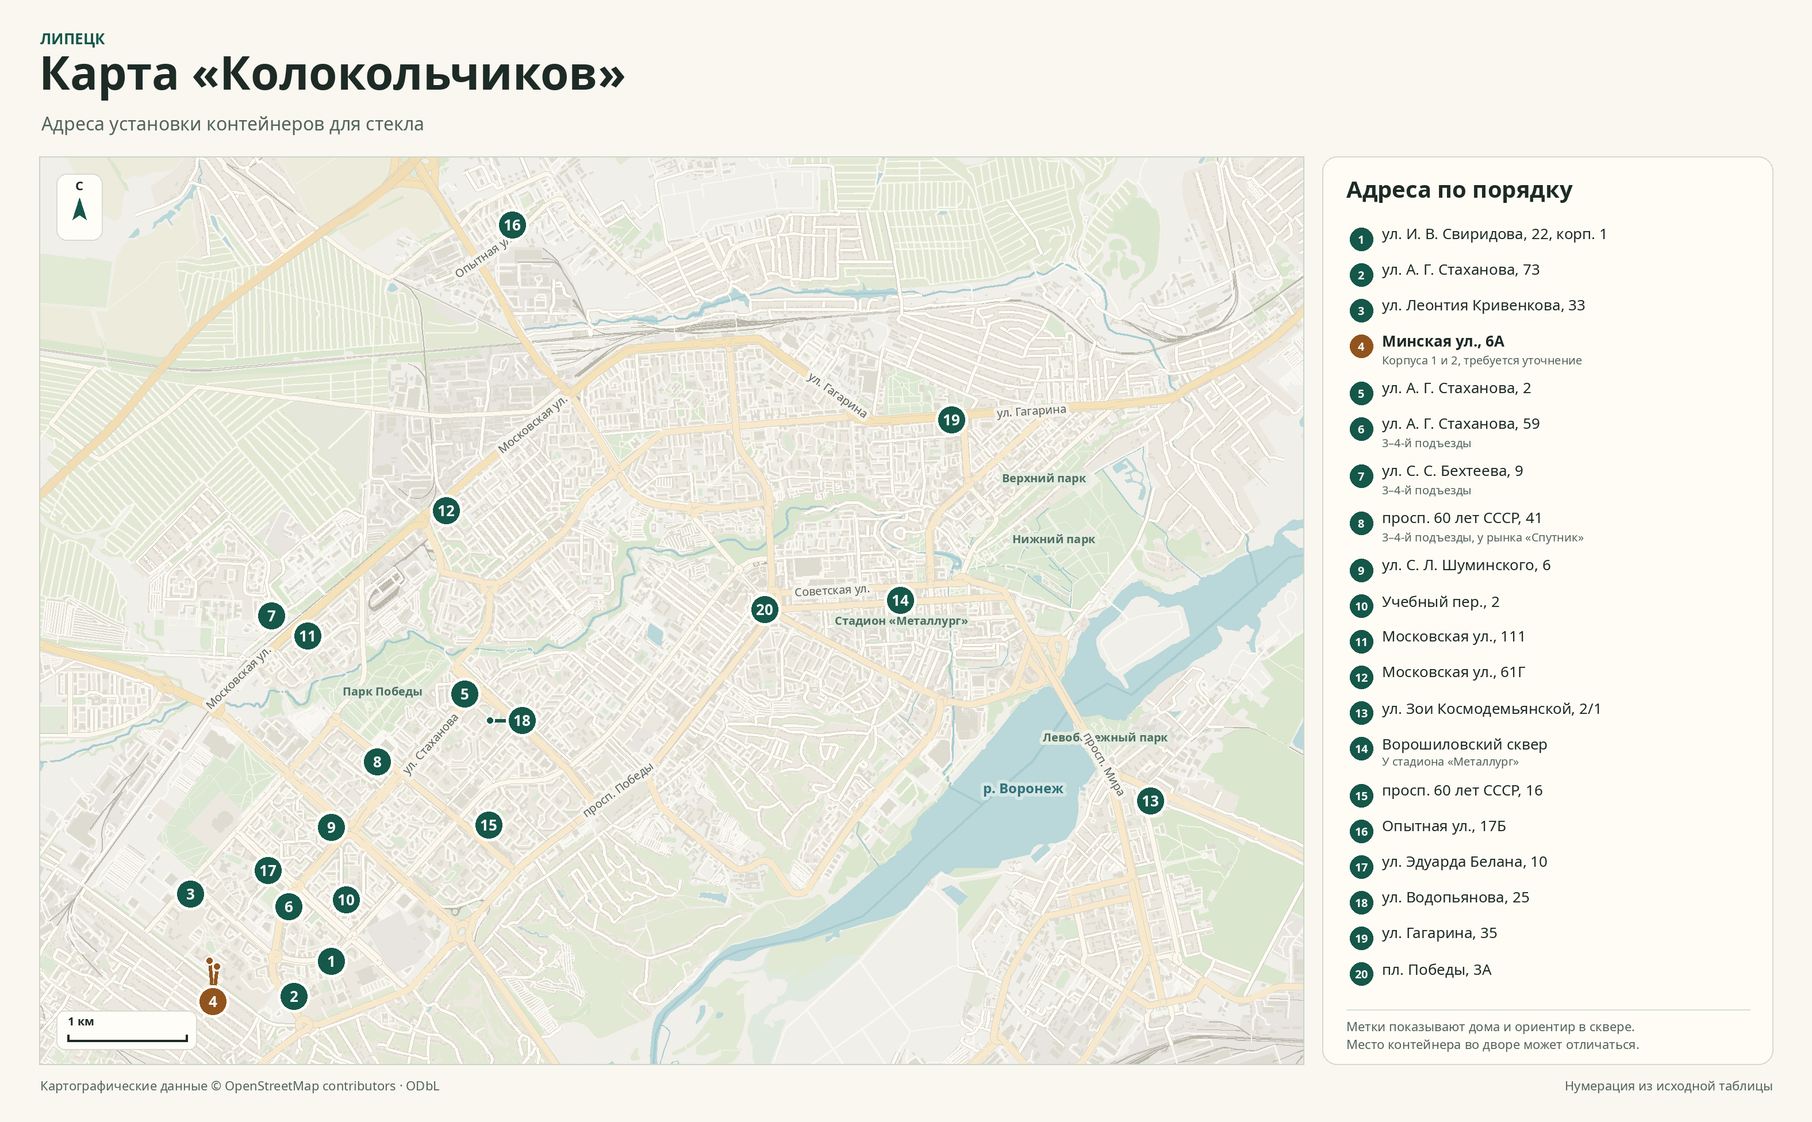
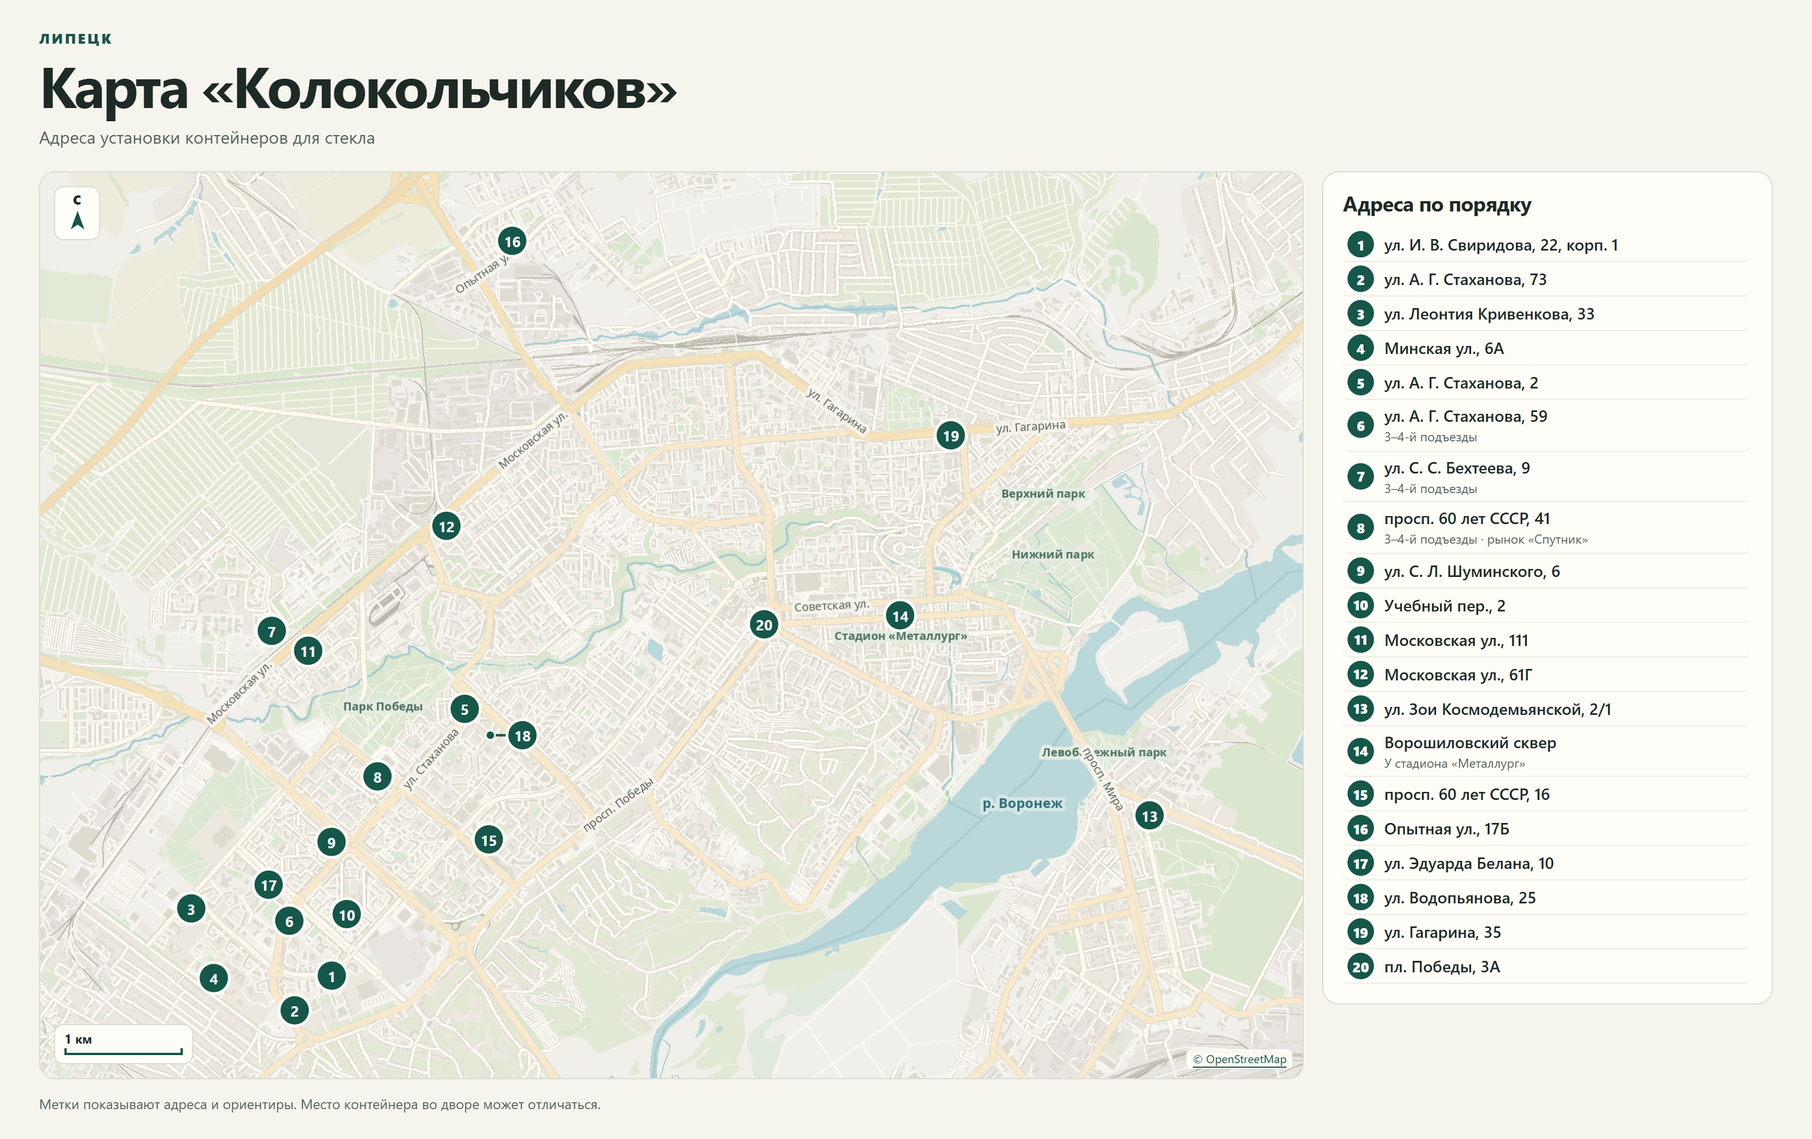
Show one glass collection marker at Minskaya 6A

diff --git a/glass-map.html b/glass-map.html
@@ -5,7 +5,7 @@
 <meta name="viewport" content="width=device-width, initial-scale=1">
 <title>Карта «Колокольчиков» · Липецк</title>
 <style>
-:root{color-scheme:light;--bg:#f6f5ed;--paper:#fffdf8;--ink:#1d2a26;--muted:#51645b;--green:#155749;--amber:#91541e;--border:#d7ded3;--soft:#eaf2ec}
+:root{color-scheme:light;--bg:#f6f5ed;--paper:#fffdf8;--ink:#1d2a26;--muted:#51645b;--green:#155749;--border:#d7ded3;--soft:#eaf2ec}
 *{box-sizing:border-box}
 body{margin:0;background:var(--bg);color:var(--ink);font:15px/1.5 "Inter","Segoe UI",Arial,sans-serif}
 button,a{touch-action:manipulation}
@@ -37,7 +37,6 @@ main{display:grid;grid-template-columns:minmax(0,1fr) minmax(290px,360px);gap:16
 .scale span{display:block;height:6px;border:solid var(--green);border-width:0 2px 2px}
 .basemap-credit{position:absolute;right:9px;bottom:8px;background:#fffdf5e8;padding:1px 5px;border-radius:4px;font-size:10px}
 .marker{cursor:pointer;color:var(--green)}
-.marker.uncertain{color:var(--amber)}
 .marker .badge{fill:currentColor;stroke:var(--paper);stroke-width:2.5}
 .marker text{fill:white;pointer-events:none;font-weight:750;font-size:13px;text-anchor:middle;dominant-baseline:central}
 .marker line{stroke:currentColor;stroke-width:2.2}
@@ -55,7 +54,6 @@ h2{font-size:18px;line-height:1.2;margin:0 0 10px;letter-spacing:-.02em}
 .addr:hover,.addr[aria-pressed=true]{background:var(--soft)}
 .addr:focus-visible{outline-offset:-2px}
 .number{border-radius:100%;width:25px;height:25px;flex:none;display:grid;place-items:center;background:var(--green);color:white;font-size:12px;font-weight:800}
-.number.alt{background:var(--amber)}
 .addr strong{display:block;font-weight:620;font-size:14px}
 .addr small{display:block;font-size:11px;color:var(--muted)}
 footer{padding-top:12px;padding-bottom:22px;font-size:12px}
@@ -84,7 +82,7 @@ footer{padding-top:12px;padding-bottom:22px;font-size:12px}
   <h1>Карта «Колокольчиков»</h1>
   <p>Адреса установки контейнеров для стекла</p>
  </div>
- <a class="download" href="assets/maps/glass-map-print.png" download="Lipetsk_Glass_Map.png">Скачать PNG</a>
+ <a class="download" href="assets/maps/glass-map-print.png?v=2" download="Lipetsk_Glass_Map.png">Скачать PNG</a>
 </header>
 <main>
  <section class="map" aria-label="Интерактивная карта">
@@ -110,12 +108,12 @@ footer{padding-top:12px;padding-bottom:22px;font-size:12px}
  </section>
 </main>
 <footer>
- <p>Метки показывают здания и ориентир в сквере. Место контейнера во дворе может отличаться. Для № 4 показаны оба корпуса.</p>
+ <p>Метки показывают адреса и ориентиры. Место контейнера во дворе может отличаться.</p>
 </footer>
 <noscript><p>Для интерактивной карты включите JavaScript. Изображение доступно по кнопке «Скачать PNG».</p></noscript>
 <script>
 "use strict";
-const {entries,width,height,scale} = {"entries": [{"id": 1, "address": "ул. И. В. Свиридова, 22, корп. 1", "note": "", "coords": [[39.5184383, 52.575854500000005]], "targets": [[254.04, 700.13]], "links": [["Объект на OpenStreetMap", "https://www.openstreetmap.org/way/834590747"]], "badge": [254.04, 700.13]}, {"id": 2, "address": "ул. А. Г. Стаханова, 73", "note": "", "coords": [[39.51378645, 52.573210700000004]], "targets": [[221.7, 730.38]], "links": [["Объект на OpenStreetMap", "https://www.openstreetmap.org/way/1218992581"]], "badge": [221.7, 730.38]}, {"id": 3, "address": "ул. Леонтия Кривенкова, 33", "note": "", "coords": [[39.50083015, 52.5809736]], "targets": [[131.6, 641.56]], "links": [["Объект на OpenStreetMap", "https://www.openstreetmap.org/way/1369915680"]], "badge": [131.6, 641.56]}, {"id": 4, "address": "Минская ул., 6А", "note": "В таблице корпус не указан. У адреса два корпуса ЖК «Геометрия». Оба показаны на карте.", "coords": [[39.50410935, 52.57545184999999], [39.5031995, 52.575889849999996]], "targets": [[154.4, 704.74], [148.08, 699.73]], "links": [["Корпус 1 на OpenStreetMap", "https://www.openstreetmap.org/way/367088359"], ["Корпус 2 на OpenStreetMap", "https://www.openstreetmap.org/way/1154915536"], ["Адреса от застройщика", "https://odsk-group.ru/projects-finished?city=43"]], "badge": [151.24, 735.24]}, {"id": 5, "address": "ул. А. Г. Стаханова, 2", "note": "", "coords": [[39.53509569605636, 52.596174]], "targets": [[369.87, 467.58]], "links": [["Объект на OpenStreetMap", "https://www.openstreetmap.org/relation/17671521"]], "badge": [369.87, 467.58]}, {"id": 6, "address": "ул. А. Г. Стаханова, 59", "note": "В таблице указаны 3–4-й подъезды. Метка показывает здание.", "coords": [[39.51311669954184, 52.5800336]], "targets": [[217.04, 652.31]], "links": [["Объект на OpenStreetMap", "https://www.openstreetmap.org/relation/17716748"]], "badge": [217.04, 652.31]}, {"id": 7, "address": "ул. С. С. Бехтеева, 9", "note": "В таблице указаны 3–4-й подъезды. Метка показывает здание.", "coords": [[39.5109229, 52.6021128]], "targets": [[201.78, 399.59]], "links": [["Объект на OpenStreetMap", "https://www.openstreetmap.org/relation/17717199"]], "badge": [201.78, 399.59]}, {"id": 8, "address": "просп. 60 лет СССР, 41", "note": "В таблице указаны 3–4-й подъезды, ориентир — рынок «Спутник». Метка показывает здание.", "coords": [[39.5241638, 52.591031349999994]], "targets": [[293.86, 526.45]], "links": [["Объект на OpenStreetMap", "https://www.openstreetmap.org/way/93225649"]], "badge": [293.86, 526.45]}, {"id": 9, "address": "ул. С. Л. Шуминского, 6", "note": "", "coords": [[39.51840445, 52.58604135]], "targets": [[253.81, 583.56]], "links": [["Объект на OpenStreetMap", "https://www.openstreetmap.org/way/180227662"]], "badge": [253.81, 583.56]}, {"id": 10, "address": "Учебный пер., 2", "note": "", "coords": [[39.520311500000005, 52.580544200000006]], "targets": [[267.07, 646.47]], "links": [["Объект на OpenStreetMap", "https://www.openstreetmap.org/way/370488552"]], "badge": [267.07, 646.47]}, {"id": 11, "address": "Московская ул., 111", "note": "", "coords": [[39.51547975, 52.60059765]], "targets": [[233.47, 416.94]], "links": [["Объект на OpenStreetMap", "https://www.openstreetmap.org/way/93217052"]], "badge": [233.47, 416.94]}, {"id": 12, "address": "Московская ул., 61Г", "note": "", "coords": [[39.53280515, 52.61010675]], "targets": [[353.94, 308.06]], "links": [["Объект на OpenStreetMap", "https://www.openstreetmap.org/way/86952848"]], "badge": [353.94, 308.06]}, {"id": 13, "address": "ул. Зои Космодемьянской, 2/1", "note": "", "coords": [[39.620914, 52.588061]], "targets": [[966.62, 560.44]], "links": [["Объект на OpenStreetMap", "https://www.openstreetmap.org/relation/6604559"], ["Адрес и метка на карте", "https://www.mirkvartir.ru/373478807/"]], "badge": [966.62, 560.44]}, {"id": 14, "address": "Ворошиловский сквер", "note": "Сквер у стадиона «Металлург». Ориентир в сквере — памятник Алексею Хренникову.", "coords": [[39.5896543, 52.6032955]], "targets": [[749.25, 386.05]], "links": [["Памятник в сквере на OpenStreetMap", "https://www.openstreetmap.org/node/13012010168"], ["Расположение сквера в постановлении администрации", "https://base.garant.ru/73226885/"]], "badge": [749.25, 386.05]}, {"id": 15, "address": "просп. 60 лет СССР, 16", "note": "", "coords": [[39.538114050000004, 52.586235450000004]], "targets": [[390.86, 581.34]], "links": [["Объект на OpenStreetMap", "https://www.openstreetmap.org/way/93182630"]], "badge": [390.86, 581.34]}, {"id": 16, "address": "Опытная ул., 17Б", "note": "", "coords": [[39.541049, 52.63179345]], "targets": [[411.27, 59.65]], "links": [["Объект на OpenStreetMap", "https://www.openstreetmap.org/way/834559682"]], "badge": [411.27, 59.65]}, {"id": 17, "address": "ул. Эдуарда Белана, 10", "note": "", "coords": [[39.51052755, 52.58278235]], "targets": [[199.03, 620.86]], "links": [["Объект на OpenStreetMap", "https://www.openstreetmap.org/way/201095770"]], "badge": [199.03, 620.86]}, {"id": 18, "address": "ул. Водопьянова, 25", "note": "", "coords": [[39.53830445, 52.594164750000004]], "targets": [[392.18, 490.58]], "links": [["Объект на OpenStreetMap", "https://www.openstreetmap.org/way/93185145"]], "badge": [420.18, 490.58]}, {"id": 19, "address": "ул. Гагарина, 35", "note": "Ориентир из таблицы — магазин «Кристалл».", "coords": [[39.596004, 52.616996]], "targets": [[793.4, 229.16]], "links": [["Объект на OpenStreetMap", "https://www.openstreetmap.org/way/147637522"], ["Здание в Яндекс Картах", "https://yandex.com/maps/9/lipetsk/house/Z0AYcw5mSUUDQFtofXpwd3VqYQ%3D%3D/"]], "badge": [793.4, 229.16]}, {"id": 20, "address": "пл. Победы, 3А", "note": "Ориентир из таблицы — Центральный рынок.", "coords": [[39.572612, 52.602609]], "targets": [[630.75, 393.91]], "links": [["Объект на OpenStreetMap", "https://www.openstreetmap.org/relation/13601965"], ["Здание в Яндекс Картах", "https://yandex.com/maps/9/lipetsk/house/ploshchad_pobedy_3a/Z0AYcwBiT0QFQFtofXpxc3pjbA%3D%3D/"]], "badge": [630.75, 393.91]}], "width": 1100, "height": 790, "scale": 102.85056374997312};
+const {entries,width,height,scale} = {"entries": [{"id": 1, "address": "ул. И. В. Свиридова, 22, корп. 1", "note": "", "coords": [[39.5184383, 52.575854500000005]], "targets": [[254.04, 700.13]], "links": [["Объект на OpenStreetMap", "https://www.openstreetmap.org/way/834590747"]], "badge": [254.04, 700.13]}, {"id": 2, "address": "ул. А. Г. Стаханова, 73", "note": "", "coords": [[39.51378645, 52.573210700000004]], "targets": [[221.7, 730.38]], "links": [["Объект на OpenStreetMap", "https://www.openstreetmap.org/way/1218992581"]], "badge": [221.7, 730.38]}, {"id": 3, "address": "ул. Леонтия Кривенкова, 33", "note": "", "coords": [[39.50083015, 52.5809736]], "targets": [[131.6, 641.56]], "links": [["Объект на OpenStreetMap", "https://www.openstreetmap.org/way/1369915680"]], "badge": [131.6, 641.56]}, {"id": 4, "address": "Минская ул., 6А", "note": "", "coords": [[39.5036544, 52.5756708]], "targets": [[151.24, 702.24]], "links": [], "badge": [151.24, 702.24]}, {"id": 5, "address": "ул. А. Г. Стаханова, 2", "note": "", "coords": [[39.53509569605636, 52.596174]], "targets": [[369.87, 467.58]], "links": [["Объект на OpenStreetMap", "https://www.openstreetmap.org/relation/17671521"]], "badge": [369.87, 467.58]}, {"id": 6, "address": "ул. А. Г. Стаханова, 59", "note": "В таблице указаны 3–4-й подъезды. Метка показывает здание.", "coords": [[39.51311669954184, 52.5800336]], "targets": [[217.04, 652.31]], "links": [["Объект на OpenStreetMap", "https://www.openstreetmap.org/relation/17716748"]], "badge": [217.04, 652.31]}, {"id": 7, "address": "ул. С. С. Бехтеева, 9", "note": "В таблице указаны 3–4-й подъезды. Метка показывает здание.", "coords": [[39.5109229, 52.6021128]], "targets": [[201.78, 399.59]], "links": [["Объект на OpenStreetMap", "https://www.openstreetmap.org/relation/17717199"]], "badge": [201.78, 399.59]}, {"id": 8, "address": "просп. 60 лет СССР, 41", "note": "В таблице указаны 3–4-й подъезды, ориентир — рынок «Спутник». Метка показывает здание.", "coords": [[39.5241638, 52.591031349999994]], "targets": [[293.86, 526.45]], "links": [["Объект на OpenStreetMap", "https://www.openstreetmap.org/way/93225649"]], "badge": [293.86, 526.45]}, {"id": 9, "address": "ул. С. Л. Шуминского, 6", "note": "", "coords": [[39.51840445, 52.58604135]], "targets": [[253.81, 583.56]], "links": [["Объект на OpenStreetMap", "https://www.openstreetmap.org/way/180227662"]], "badge": [253.81, 583.56]}, {"id": 10, "address": "Учебный пер., 2", "note": "", "coords": [[39.520311500000005, 52.580544200000006]], "targets": [[267.07, 646.47]], "links": [["Объект на OpenStreetMap", "https://www.openstreetmap.org/way/370488552"]], "badge": [267.07, 646.47]}, {"id": 11, "address": "Московская ул., 111", "note": "", "coords": [[39.51547975, 52.60059765]], "targets": [[233.47, 416.94]], "links": [["Объект на OpenStreetMap", "https://www.openstreetmap.org/way/93217052"]], "badge": [233.47, 416.94]}, {"id": 12, "address": "Московская ул., 61Г", "note": "", "coords": [[39.53280515, 52.61010675]], "targets": [[353.94, 308.06]], "links": [["Объект на OpenStreetMap", "https://www.openstreetmap.org/way/86952848"]], "badge": [353.94, 308.06]}, {"id": 13, "address": "ул. Зои Космодемьянской, 2/1", "note": "", "coords": [[39.620914, 52.588061]], "targets": [[966.62, 560.44]], "links": [["Объект на OpenStreetMap", "https://www.openstreetmap.org/relation/6604559"], ["Адрес и метка на карте", "https://www.mirkvartir.ru/373478807/"]], "badge": [966.62, 560.44]}, {"id": 14, "address": "Ворошиловский сквер", "note": "Сквер у стадиона «Металлург». Ориентир в сквере — памятник Алексею Хренникову.", "coords": [[39.5896543, 52.6032955]], "targets": [[749.25, 386.05]], "links": [["Памятник в сквере на OpenStreetMap", "https://www.openstreetmap.org/node/13012010168"], ["Расположение сквера в постановлении администрации", "https://base.garant.ru/73226885/"]], "badge": [749.25, 386.05]}, {"id": 15, "address": "просп. 60 лет СССР, 16", "note": "", "coords": [[39.538114050000004, 52.586235450000004]], "targets": [[390.86, 581.34]], "links": [["Объект на OpenStreetMap", "https://www.openstreetmap.org/way/93182630"]], "badge": [390.86, 581.34]}, {"id": 16, "address": "Опытная ул., 17Б", "note": "", "coords": [[39.541049, 52.63179345]], "targets": [[411.27, 59.65]], "links": [["Объект на OpenStreetMap", "https://www.openstreetmap.org/way/834559682"]], "badge": [411.27, 59.65]}, {"id": 17, "address": "ул. Эдуарда Белана, 10", "note": "", "coords": [[39.51052755, 52.58278235]], "targets": [[199.03, 620.86]], "links": [["Объект на OpenStreetMap", "https://www.openstreetmap.org/way/201095770"]], "badge": [199.03, 620.86]}, {"id": 18, "address": "ул. Водопьянова, 25", "note": "", "coords": [[39.53830445, 52.594164750000004]], "targets": [[392.18, 490.58]], "links": [["Объект на OpenStreetMap", "https://www.openstreetmap.org/way/93185145"]], "badge": [420.18, 490.58]}, {"id": 19, "address": "ул. Гагарина, 35", "note": "Ориентир из таблицы — магазин «Кристалл».", "coords": [[39.596004, 52.616996]], "targets": [[793.4, 229.16]], "links": [["Объект на OpenStreetMap", "https://www.openstreetmap.org/way/147637522"], ["Здание в Яндекс Картах", "https://yandex.com/maps/9/lipetsk/house/Z0AYcw5mSUUDQFtofXpwd3VqYQ%3D%3D/"]], "badge": [793.4, 229.16]}, {"id": 20, "address": "пл. Победы, 3А", "note": "Ориентир из таблицы — Центральный рынок.", "coords": [[39.572612, 52.602609]], "targets": [[630.75, 393.91]], "links": [["Объект на OpenStreetMap", "https://www.openstreetmap.org/relation/13601965"], ["Здание в Яндекс Картах", "https://yandex.com/maps/9/lipetsk/house/ploshchad_pobedy_3a/Z0AYcwBiT0QFQFtofXpxc3pjbA%3D%3D/"]], "badge": [630.75, 393.91]}], "width": 1100, "height": 790, "scale": 102.85056374997312};
 const map = document.getElementById("map");
 const markers = document.getElementById("markers");
 const ordered = document.getElementById("ordered");
@@ -141,10 +139,10 @@ function html(tag,value,parent,className) {
  parent.append(element);
  return element;
 }
-const notes = {4:"Два корпуса · уточнить",6:"3–4-й подъезды",7:"3–4-й подъезды",8:"3–4-й подъезды · рынок «Спутник»",14:"У стадиона «Металлург»"};
+const notes = {6:"3–4-й подъезды",7:"3–4-й подъезды",8:"3–4-й подъезды · рынок «Спутник»",14:"У стадиона «Металлург»"};
 for (const e of entries) {
  const [x,y] = e.badge;
- const marker = svg("g",{"class":"marker"+(e.id===4?" uncertain":""),"aria-label":e.id+". "+e.address,
+ const marker = svg("g",{"class":"marker","aria-label":e.id+". "+e.address,
    "aria-pressed":"false","tabindex":0,"role":"button"},markers);
  svg("title",{},marker).textContent=e.id+". "+e.address;
  for (const [a,b] of e.targets) {
@@ -167,7 +165,7 @@ for (const e of entries) {
  const button=html("button","",li,"addr");
  button.type="button";
  button.setAttribute("aria-pressed","false");
- html("span",e.id,button,"number"+(e.id===4?" alt":""));
+ html("span",e.id,button,"number");
  const title=html("span","",button);
  html("strong",e.address,title);
  if (notes[e.id]) html("small",notes[e.id],title);
@@ -187,12 +185,14 @@ function choose(entry) {
  selected.replaceChildren();
  html("h3",entry.id+". "+entry.address,selected);
  if(entry.note) html("p",entry.note,selected);
- const links=html("ul","",selected,"sources");
- for (const [label,url] of entry.links) {
-  const a=html("a",label,html("li","",links));
-  a.href=url;
-  a.target="_blank";
-  a.rel="noopener noreferrer";
+ if (entry.links.length) {
+  const links=html("ul","",selected,"sources");
+  for (const [label,url] of entry.links) {
+   const a=html("a",label,html("li","",links));
+   a.href=url;
+   a.target="_blank";
+   a.rel="noopener noreferrer";
+  }
  }
  const [x,y]=entry.targets.reduce(([x,y],[a,b])=>[x+a/entry.targets.length,y+b/entry.targets.length],[0,0]);
  zoomTo(Math.max(3.5,width/view.w), x,y);
